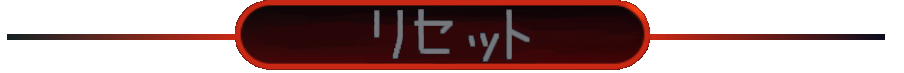
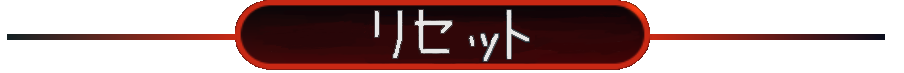
リセット画像修正

Changed region(s): [[0.4027, 0.137, 0.5885, 0.8219]]

diff --git a/scene/GameScene.cpp b/scene/GameScene.cpp
@@ -308,6 +308,35 @@ void GameScene::Update()
 				//リセットする
 				ResetGameScene();
 			}
+			isSelect = 0;
+			if (isSelect == 0) {
+				//続ける
+				continueButtonSprite.reset(
+					Sprite::Create(continueButton[1],
+						Vector2(WinApp::kWindowWidth / 2, WinApp::kWindowHeight / 2),
+						Vector4(1, 1, 1, 1),
+						Vector2(0.5f, 0.5f)));
+				//リセット
+				resetButtonSprite.reset(
+					Sprite::Create(resetButton[0],
+						Vector2(WinApp::kWindowWidth / 2, WinApp::kWindowHeight / 1.5f),
+						Vector4(1, 1, 1, 1),
+						Vector2(0.5f, 0.5f)));
+			}
+			else if (isSelect == 1) {
+				//続ける
+				continueButtonSprite.reset(
+					Sprite::Create(continueButton[0],
+						Vector2(WinApp::kWindowWidth / 2, WinApp::kWindowHeight / 2),
+						Vector4(1, 1, 1, 1),
+						Vector2(0.5f, 0.5f)));
+				//リセット
+				resetButtonSprite.reset(
+					Sprite::Create(resetButton[1],
+						Vector2(WinApp::kWindowWidth / 2, WinApp::kWindowHeight / 1.5f),
+						Vector4(1, 1, 1, 1),
+						Vector2(0.5f, 0.5f)));
+			}
 		}
 		//画像変更
 		if (pad.GetTriggerButtons(XINPUT_GAMEPAD_DPAD_DOWN) ||

diff --git a/RailCamera.cpp b/RailCamera.cpp
@@ -53,6 +53,7 @@ void RailCamera::Reset(Vector3 pos, Vector3 rot)
 
 	startIndex = 1;
 	time = 0;
+	timeRate = 0;
 }
 
 void RailCamera::Update()
